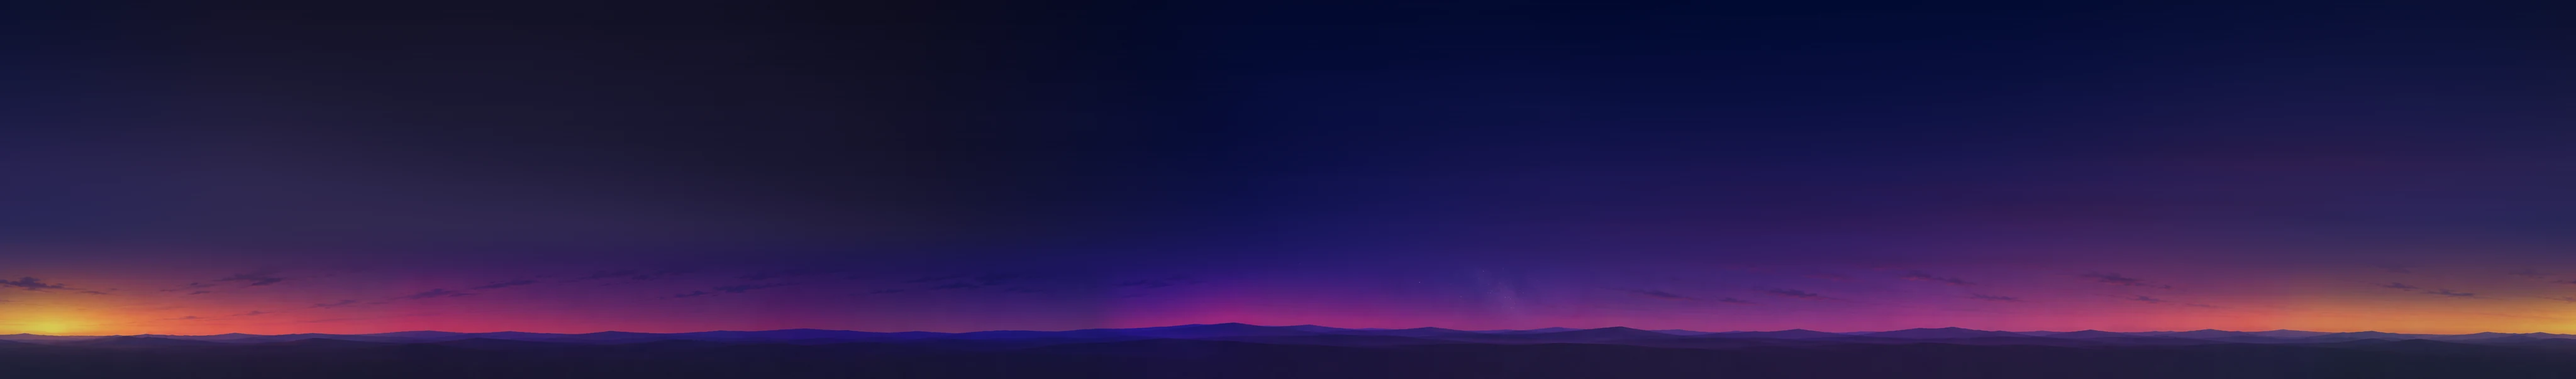
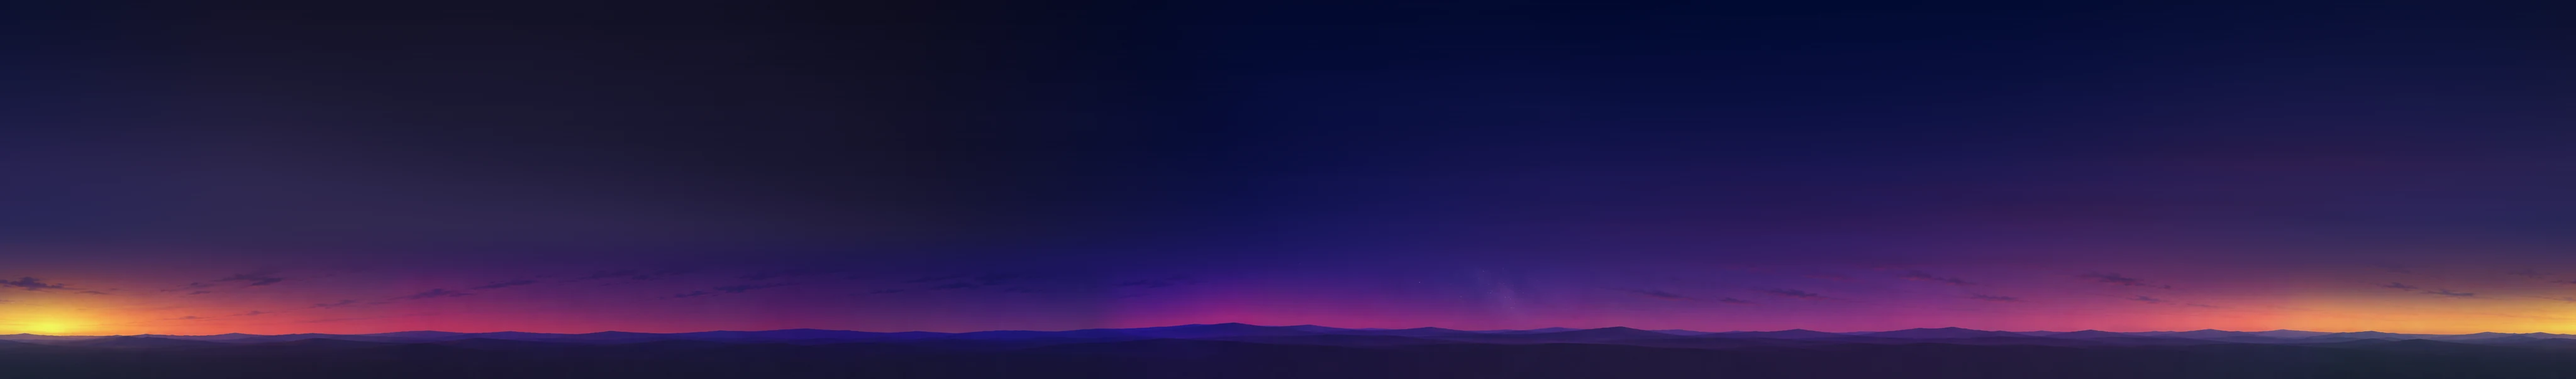
E409 Signal Dunes: D's horizon glow line peach and bright (seat C: 131 against 166)
Toward D's heading (the smooth +-70 deg weight of row 4), the late strip's band from -1 to 3 deg is 15 % brighter and its
green up 32 %, from the red-orange 184,114,87 to the mockup's peach: D's glow rows at y 0.47-0.48 are now 199,138,102 /
200,140,105 (L 148-151) against the mockup's 194,134,102 / 198,140,105 (L 144-150); round 23's 184,114,87 (L 127).

Claude-Session: https://claude.ai/code/session_012htVTtwhjVAvFBGLEQBwnq

Changed region(s): [[0.8438, 0.7761, 1.0, 0.8955], [0.0, 0.7761, 0.0625, 0.8955]]

diff --git a/art/sunscar-dunes/round-25-sky/prep.py b/art/sunscar-dunes/round-25-sky/prep.py
@@ -53,9 +53,12 @@ for stage in ('early', 'late'):  # round 18: two stages (the mid painting fit no
         wh = ease((70.0 - dh) / 60.0)
         rf = np.interp(el, [-8.0, 1.0, 4.0, 14.0, 22.0, 90.0], [0.82, 0.82, 0.62, 0.62, 1.0, 1.0])
         # the glow line keeps its value (the mockup's 160,103,99 against 199,97,92): less red, a little more green
-        gf = np.interp(el, [-8.0, 2.0, 5.0, 14.0, 22.0, 90.0], [1.2, 1.2, 0.95, 0.95, 1.0, 1.0])
+        gf = np.interp(el, [-8.0, 2.0, 5.0, 14.0, 22.0, 90.0], [1.32, 1.32, 0.95, 0.95, 1.0, 1.0])
+        # round 24 (seat C: D's glow line peaks 131 against the mockup's 166, peach 198,140,105): the band 15 % brighter
+        gain = np.interp(el, [-8.0, -1.0, 3.0, 6.0, 90.0], [1.0, 1.15, 1.15, 1.0, 1.0])
         a[..., 0] *= 1.0 - (1.0 - rf)[:, None] * wh[None, :]
         a[..., 1] *= 1.0 + (gf - 1.0)[:, None] * wh[None, :]
+        a *= (1.0 + (gain - 1.0)[:, None] * wh[None, :])[..., None]
         im = Image.fromarray(np.clip(a, 0, 255).astype(np.uint8))
     y0 = int(round(HOR - TOP * PPD)); y1 = min(im.height, int(round(HOR - BOTTOM * PPD)))
     strip = im.crop((0, y0, im.width, y1))
